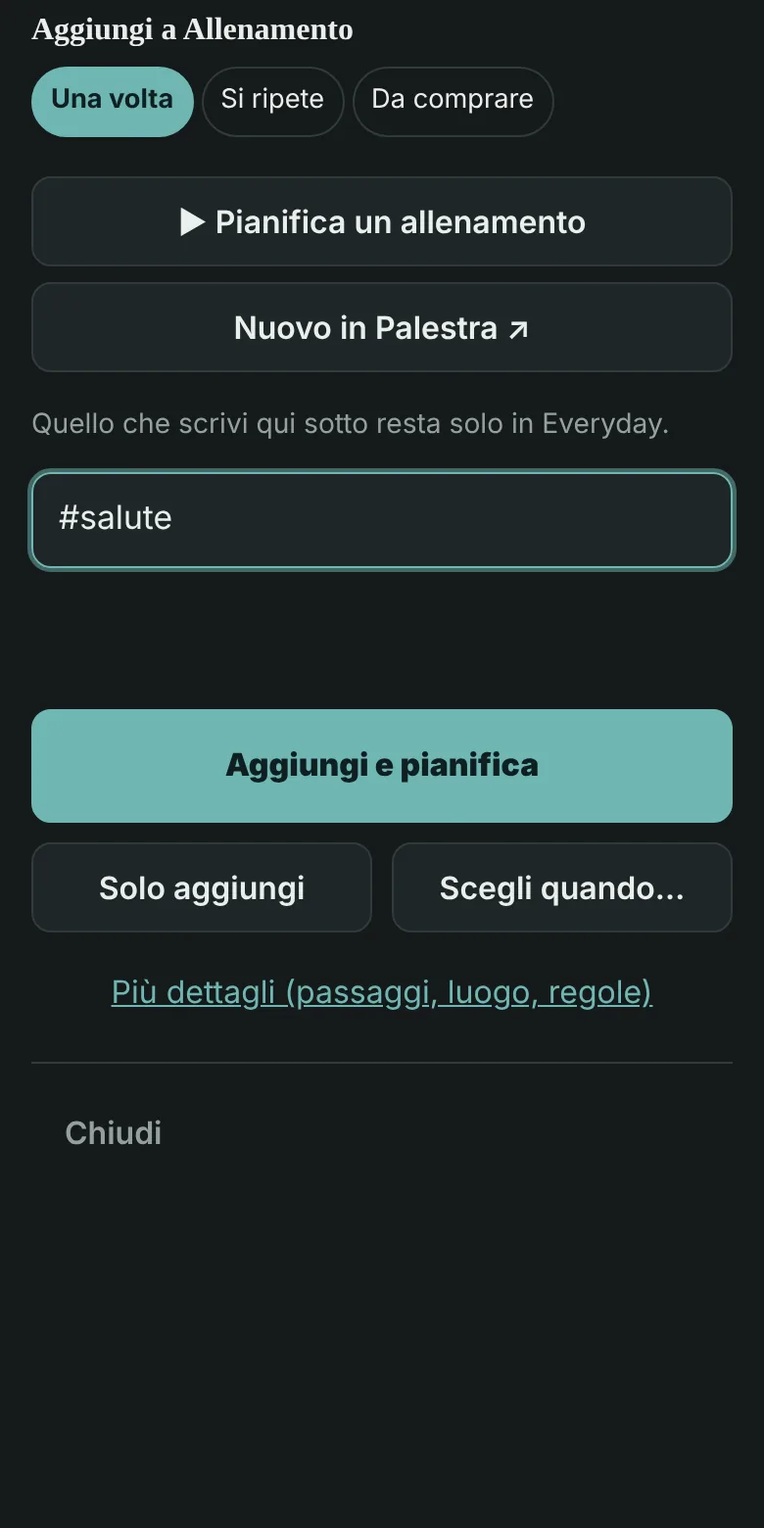
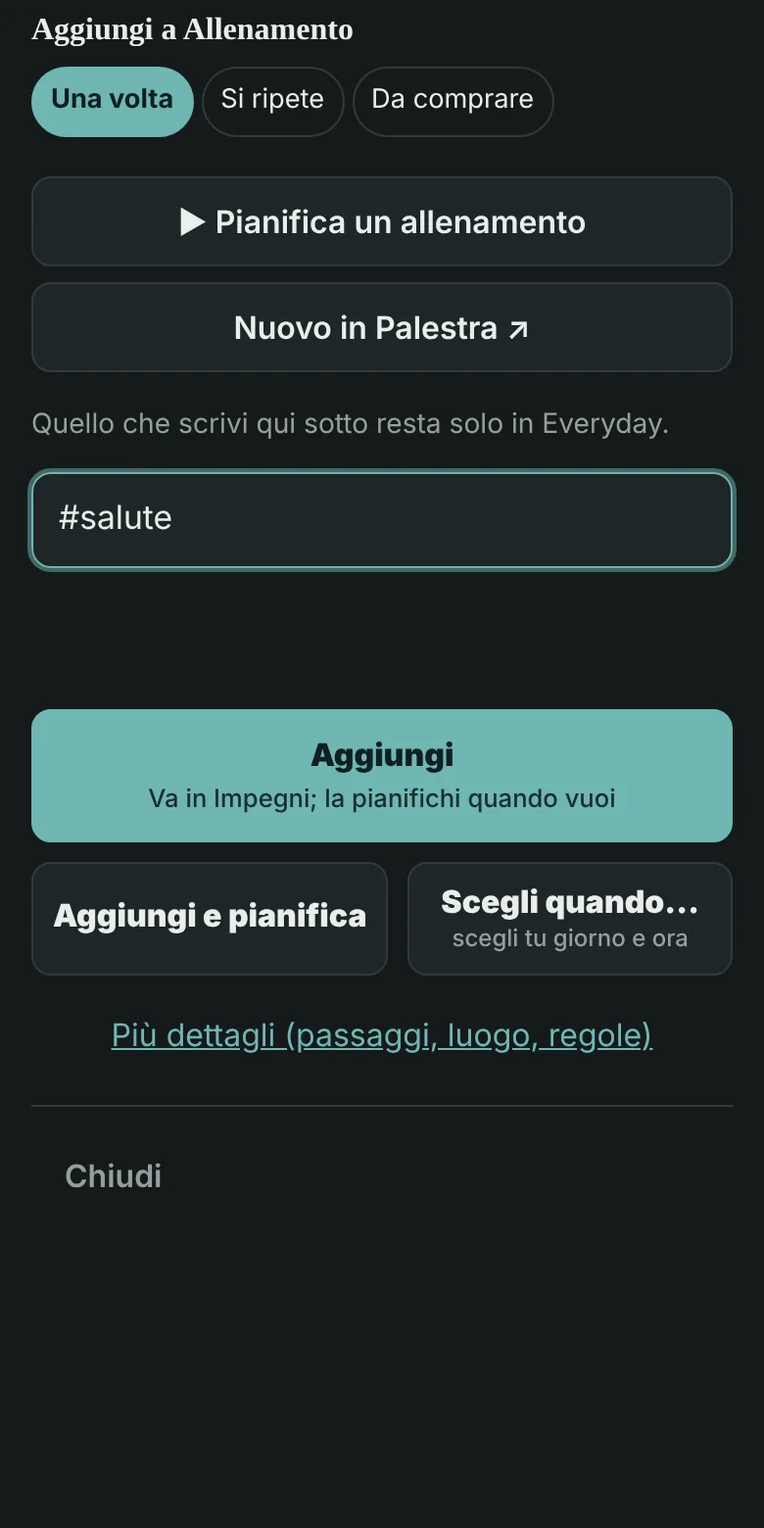
Add files via upload

Changed region(s): [[0.0308, 0.4615, 0.9538, 0.8]]

diff --git a/js/i18n.js b/js/i18n.js
@@ -84,6 +84,7 @@ const dict = {
     pnEvNone: 'Tap an event to see it here.', pnCalendar: 'Calendar', pnTied: 'Before and after', pnNoTied: 'Nothing tied to it yet: All details → + To do before / after.', pnWaiting: 'Waiting', pnNextEvents: 'Coming events', pnTooLong: "It doesn't fit: it needs more time.", agHere: 'put it here',
     langLook: 'Language and appearance', appearance: 'Appearance', theme_auto: 'Automatic', theme_light: 'Light', theme_dark: 'Dark', themeHint: 'Automatic follows your phone or computer. The choice is kept on this device only.',
     advTravelMore: 'Fine-tuning', notConnected: 'Not connected', gcalRowSub: 'Your appointments in the plan, your plan in the calendar', advTasksSub: 'Date groups, the week at a glance', onWord: 'On', offWord: 'Off', advDataSub: 'Export, empty this device', advancedSub2: 'Connections, task list, rules, your data', advListHint: 'Set these up once. Each opens a page of its own.', advOptions: 'Options',
+    addBtnTask: 'Add', addBtnTaskSub: 'It goes to To do; plan it whenever you like', chooseWhenSub: 'pick the day and time yourself',
     category: 'Category', categories: 'Categories', catMain: 'colour', catsHint: 'Tick one or more; the first gives the colour.', noCategory: 'None', notes: 'Notes',
     save: 'Save', cancel: 'Cancel', delete: 'Delete', close: 'Close', duplicate: 'Duplicate', planIt: 'Plan it',
     confirmDeleteTask: 'Delete this task?', confirmDeleteTemplate: 'Delete this template?', confirmDeleteCategory: 'Delete this category? Tasks keep working, just without a color.',
@@ -204,7 +205,7 @@ const dict = {
     shopAddPh: 'e.g. 2 l milk, dish soap, toilet paper', shareList: 'Share the list', runningLow: 'running low',
     department: 'Department', forRecipes: (list) => `For: ${list}`, doneShopping: 'Done shopping',
     putAwayDone: (n) => `${n} ${plural(n, 'item', 'items')} put away`,
-    putAwayFood: 'Food goes into Ricette\'s pantry; household and personal-care items just leave the list.',
+    putAwayFood: 'Everything goes into Ricette\'s pantry; cleaning and personal-care items under Household.',
     dept_produce: 'Fruit & veg', dept_bakery: 'Bread & bakery', dept_meatfish: 'Meat & fish', dept_dairy: 'Dairy & eggs', dept_grains: 'Pasta, rice & grains', dept_staples: 'Pantry staples', dept_condiments: 'Condiments & spices', dept_sweets: 'Sweets & snacks', dept_drinks: 'Drinks', dept_frozen: 'Frozen', dept_other: 'Other', listView: 'View', listMode_dept: 'Departments', listMode_recipe: 'Recipes', listMode_plain: 'My order', restock: 'Restock', otherItems: 'Other', inCart: 'In the cart', clearChecked: 'Clear', putAway: 'Put in pantry', dragHintGroups: 'Drag ⠿ to reorder items and groups, e.g. to match your supermarket.', dragHintItems: 'Drag ⠿ to put the items in your own order.', dragToMove: (n) => `Move ${n}`, copied: 'List copied', quantity: 'Quantity', unit: 'Unit',
     newVersion: 'A new version of Everyday is ready.', reloadNow: 'Update',
     steps: 'Steps', stepsHint: 'Parts of the task, each with its own time on the plan.',
@@ -379,6 +380,7 @@ const dict = {
     pnEvNone: 'Tocca un evento per vederlo qui.', pnCalendar: 'Calendario', pnTied: 'Prima e dopo', pnNoTied: 'Ancora niente legato: Tutti i dettagli → + Da fare prima / dopo.', pnWaiting: 'In attesa', pnNextEvents: 'Prossimi eventi', pnTooLong: 'Non ci sta: serve più tempo.', agHere: 'mettila qui',
     langLook: 'Lingua e aspetto', appearance: 'Aspetto', theme_auto: 'Automatico', theme_light: 'Chiaro', theme_dark: 'Scuro', themeHint: 'Automatico segue il telefono o il computer. La scelta resta solo su questo dispositivo.',
     advTravelMore: 'Regolazioni', notConnected: 'Non collegato', gcalRowSub: 'I tuoi appuntamenti nel piano, il piano nel calendario', advTasksSub: 'Gruppi per data, la settimana a colpo d\'occhio', onWord: 'Attive', offWord: 'Spente', advDataSub: 'Esporta, svuota questo dispositivo', advancedSub2: 'Collegamenti, elenco attività, regole, i tuoi dati', advListHint: 'Da impostare una volta. Ognuna apre una pagina sua.', advOptions: 'Opzioni',
+    addBtnTask: 'Aggiungi', addBtnTaskSub: 'Va in Impegni; la pianifichi quando vuoi', chooseWhenSub: 'scegli tu giorno e ora',
     category: 'Categoria', categories: 'Categorie', catMain: 'colore', catsHint: 'Scegline una o più; la prima dà il colore.', noCategory: 'Nessuna', notes: 'Note',
     save: 'Salva', cancel: 'Annulla', delete: 'Elimina', close: 'Chiudi', duplicate: 'Duplica', planIt: 'Pianifica',
     confirmDeleteTask: 'Eliminare questa attività?', confirmDeleteTemplate: 'Eliminare questo modello?', confirmDeleteCategory: 'Eliminare questa categoria? Le attività restano, solo senza colore.',
@@ -495,7 +497,7 @@ const dict = {
     shopAddPh: 'Es. 2 l latte, detersivo piatti, carta igienica', shareList: 'Condividi la lista', runningLow: 'in esaurimento',
     department: 'Reparto', forRecipes: (list) => `Per: ${list}`, doneShopping: 'Spesa fatta',
     putAwayDone: (n) => `${n} ${plural(n, 'articolo sistemato', 'articoli sistemati')}`,
-    putAwayFood: 'Il cibo va nella dispensa di Ricette; i prodotti per la casa e la persona escono solo dalla lista.',
+    putAwayFood: 'Tutto va nella dispensa di Ricette; i prodotti per la casa e la persona sotto Casa e pulizia.',
     dept_produce: 'Frutta e verdura', dept_bakery: 'Pane e forno', dept_meatfish: 'Carne e pesce', dept_dairy: 'Latticini e uova', dept_grains: 'Pasta, riso e cereali', dept_staples: 'Dispensa e conserve', dept_condiments: 'Condimenti e spezie', dept_sweets: 'Dolci e snack', dept_drinks: 'Bevande', dept_frozen: 'Surgelati', dept_other: 'Altro', listView: 'Visualizzazione', listMode_dept: 'Reparti', listMode_recipe: 'Ricette', listMode_plain: 'Mio ordine', restock: 'Da ricomprare', otherItems: 'Altro', inCart: 'Nel carrello', clearChecked: 'Svuota', putAway: 'Metti in dispensa', dragHintGroups: 'Trascina ⠿ per riordinare articoli e gruppi, ad esempio nell\'ordine del tuo supermercato.', dragHintItems: 'Trascina ⠿ per mettere gli articoli nell\'ordine che preferisci.', dragToMove: (n) => `Sposta ${n}`, copied: 'Lista copiata', quantity: 'Quantità', unit: 'Unità',
     newVersion: 'È pronta una nuova versione di Everyday.', reloadNow: 'Aggiorna',
     steps: 'Passaggi', stepsHint: 'Parti dell\'attività, ognuna col suo orario nel piano.',
@@ -670,6 +672,7 @@ const dict = {
     pnEvNone: 'Tippe auf einen Termin, um ihn hier zu sehen.', pnCalendar: 'Kalender', pnTied: 'Davor und danach', pnNoTied: 'Noch nichts verknüpft: Alle Details → + Davor / danach.', pnWaiting: 'Wartet', pnNextEvents: 'Nächste Termine', pnTooLong: 'Passt nicht: Es braucht mehr Zeit.', agHere: 'hierhin',
     langLook: 'Sprache und Aussehen', appearance: 'Aussehen', theme_auto: 'Automatisch', theme_light: 'Hell', theme_dark: 'Dunkel', themeHint: 'Automatisch folgt dem Handy oder Computer. Die Wahl gilt nur auf diesem Gerät.',
     advTravelMore: 'Feineinstellungen', notConnected: 'Nicht verbunden', gcalRowSub: 'Deine Termine im Plan, dein Plan im Kalender', advTasksSub: 'Datumsgruppen, die Woche auf einen Blick', onWord: 'An', offWord: 'Aus', advDataSub: 'Exportieren, dieses Gerät leeren', advancedSub2: 'Verbindungen, Aufgabenliste, Regeln, deine Daten', advListHint: 'Einmal einrichten. Jede öffnet eine eigene Seite.', advOptions: 'Optionen',
+    addBtnTask: 'Hinzufügen', addBtnTaskSub: 'Kommt in die To-do-Liste; plane es, wann du willst', chooseWhenSub: 'Tag und Uhrzeit selbst wählen',
     category: 'Kategorie', categories: 'Kategorien', catMain: 'Farbe', catsHint: 'Eine oder mehrere wählen; die erste gibt die Farbe.', noCategory: 'Keine', notes: 'Notizen',
     save: 'Speichern', cancel: 'Abbrechen', delete: 'Löschen', close: 'Schließen', duplicate: 'Duplizieren', planIt: 'Einplanen',
     confirmDeleteTask: 'Diese Aufgabe löschen?', confirmDeleteTemplate: 'Diese Vorlage löschen?', confirmDeleteCategory: 'Diese Kategorie löschen? Aufgaben bleiben erhalten, nur ohne Farbe.',
@@ -786,7 +789,7 @@ const dict = {
     shopAddPh: 'z. B. 2 l Milch, Spülmittel, Toilettenpapier', shareList: 'Liste teilen', runningLow: 'Vorrat knapp',
     department: 'Abteilung', forRecipes: (list) => `Für: ${list}`, doneShopping: 'Einkauf erledigt',
     putAwayDone: (n) => `${n} ${plural(n, 'Artikel', 'Artikel')} eingeräumt`,
-    putAwayFood: 'Essen kommt in Ricettes Vorrat; Haushalts- und Pflegeartikel verschwinden nur von der Liste.',
+    putAwayFood: 'Alles kommt in Ricettes Vorrat; Haushalts- und Pflegeartikel unter Haushalt.',
     dept_produce: 'Obst & Gemüse', dept_bakery: 'Brot & Backwaren', dept_meatfish: 'Fleisch & Fisch', dept_dairy: 'Milchprodukte & Eier', dept_grains: 'Nudeln, Reis & Getreide', dept_staples: 'Vorrat & Konserven', dept_condiments: 'Gewürze & Saucen', dept_sweets: 'Süßes & Snacks', dept_drinks: 'Getränke', dept_frozen: 'Tiefkühl', dept_other: 'Sonstiges', listView: 'Ansicht', listMode_dept: 'Abteilungen', listMode_recipe: 'Rezepte', listMode_plain: 'Meine Reihenfolge', restock: 'Nachkaufen', otherItems: 'Sonstiges', inCart: 'Im Wagen', clearChecked: 'Entfernen', putAway: 'In den Vorrat', dragHintGroups: 'Ziehe ⠿, um Artikel und Gruppen umzusortieren, z. B. in der Reihenfolge deines Supermarkts.', dragHintItems: 'Ziehe ⠿, um die Artikel in deine Reihenfolge zu bringen.', dragToMove: (n) => `${n} verschieben`, copied: 'Liste kopiert', quantity: 'Menge', unit: 'Einheit',
     newVersion: 'Eine neue Version von Everyday ist bereit.', reloadNow: 'Aktualisieren',
     steps: 'Schritte', stepsHint: 'Teile der Aufgabe, jeder mit eigener Zeit im Plan.',

diff --git a/guide-it.html b/guide-it.html
@@ -173,11 +173,11 @@ html.desk .desk-only{background:var(--card);border-radius:14px;padding:2px 16px}
 <p>Qualche scorciatoia evita di aprire l'attività: <code>Dentista 1h</code> imposta quanto dura, <code>!1</code>…<code>!5</code> quanto è importante (1 = molto), <code>#lavoro</code> una categoria (<code>#lavoro #casa</code> per due), <code>@Via Roma 12</code> il luogo, <code>ven</code> o <code>domani</code> il giorno, <code>entro ven</code> una scadenza, <code>ogni lun</code> una ripetizione settimanale. Sotto il campo, dei bollini mostrano cosa ha capito l'app: <em>20m · Lavoro · entro Ven</em>.</p>
 <p>Per un'attività ci sono tre modi di chiudere:</p>
 <ul>
+<li><strong>Aggiungi</strong>, il pulsante grande, la mette nella lista, da pianificare quando vuoi. Invio fa lo stesso e tiene il foglio aperto per la prossima.</li>
 <li><strong>Aggiungi e pianifica</strong> la mette subito nel primo spazio libero; il pulsante dice dove (<em>primo spazio libero: Mer 09:00</em>). Con un giorno <em>e</em> un'ora (<code>Chiamare Marco mar 15:00</code>) va esattamente lì.</li>
-<li><strong>Solo aggiungi</strong> la mette nella lista, da pianificare dopo. Invio fa lo stesso e tiene il foglio aperto per la prossima.</li>
-<li><strong>Scegli quando…</strong> apre gli spazi liberi dei prossimi giorni tra cui scegliere.</li>
+<li><strong>Scegli quando…</strong> apre un foglio con giorno, ora e durata, già compilati col primo spazio libero: li cambi tu, poi <em>Pianifica</em>. È la differenza con <em>Aggiungi e pianifica</em>, che decide da sola.</li>
 </ul>
-<p><em>Più dettagli (passaggi, luogo, regole)</em> apre l'editor completo. Un'attività nuova compare in cima alla sua lista sotto <em>Appena aggiunte</em>, e una barra dice dove è andata.</p>
+<p><em>Più dettagli (passaggi, luogo, regole)</em> apre l'editor completo. Un'attività nuova compare in cima alla sua lista sotto <em>Appena aggiunte</em>, e per qualche secondo una barra dice dove è andata, con <em>Annulla</em>. La barra lascia libero il <strong>+</strong>: toccalo per la prossima e la barra si chiude.</p>
 <p>In <em>Spesa</em> e in Eventi, Invio aggiunge la riga e tiene il foglio aperto, con l'elenco di quello che hai aggiunto. <em>Pasto</em> apre l'editor del pasto.</p>
 <p><strong>Tieni premuto il +</strong> (o clic destro dal computer) per il menu completo: Attività, Evento, Da una routine, Pasto e <strong>Importa un elenco</strong>, che prende una lista intera che incolli, un'attività per riga.</p>
 <p><img class="ph" loading="lazy" alt="Tenendo premuto il +: il menu completo" src="guide/it/23-plus-menu.webp" /><img class="dk" loading="lazy" alt="Tenendo premuto il +: il menu completo" src="guide/it/desk/23-plus-menu.webp" /></p>
@@ -330,7 +330,7 @@ html.desk .desk-only{background:var(--card);border-radius:14px;padding:2px 16px}
 <ul>
 <li><strong>Aggiungere.</strong> Tocca <strong>+</strong> e scrivi <code>2 l latte</code>, <code>detersivo piatti</code> o <code>shampoo</code>; Invio aggiunge ognuno e tiene il foglio aperto, così scrivi tutta la lista di fila. Ogni articolo finisce da solo nel suo reparto — e nello stesso in qualunque lingua lo scrivi (<em>cavolfiore</em>, <em>Blumenkohl</em> e <em>cauliflower</em> vanno tutti in <em>Frutta e verdura</em>). Casa e pulizia e cura della persona hanno reparti propri. Gli articoli che Ricette aggiunge perché qualcosa sta finendo hanno l'etichetta <em>in esaurimento</em>.</li>
 <li><strong>⇅ Vista.</strong> Il pulsante accanto alla ricerca mostra la vista attuale; toccalo per scegliere <em>Reparti</em>, <em>Ricette</em>, <em>Negozi</em>, <em>Mio ordine</em>, <em>A–Z</em>, <em>Aggiunti di recente</em> o <em>Aggiunti per primi</em>, e per filtrare: solo quello che si trova in un negozio, o solo quello in esaurimento. I filtri attivi compaiono come etichette sotto la ricerca; toccane una per toglierla.</li>
-<li><strong>Spuntare.</strong> Spunta un articolo al negozio e lascia il suo gruppo per il <strong>carrello</strong> in basso: <em>Nel carrello · 3</em>. Tocca il numero per vedere cosa c'è dentro; <em>Metti in dispensa</em> mette il cibo nella dispensa di Ricette (gli articoli per la casa e la persona escono solo dalla lista).</li>
+<li><strong>Spuntare.</strong> Spunta un articolo al negozio e lascia il suo gruppo per il <strong>carrello</strong> in basso: <em>Nel carrello · 3</em>. Tocca il numero per vedere cosa c'è dentro; <em>Metti in dispensa</em> mette tutto nella dispensa di Ricette: il cibo come sempre, i prodotti per la casa e la persona sotto <em>Casa e pulizia</em>.</li>
 <li><strong>Un articolo.</strong> Tocca il nome per cambiare nome, quantità (− / +), unità, reparto, nota e negozi che lo hanno; <em>+ Nuovo negozio</em> ne aggiunge uno lì. Elimina è nella stessa scheda, con <em>Annulla</em>.</li>
 <li><strong>⋯ Altro.</strong> <em>Pianifica la spesa</em> (i giri dei negozi), <em>Condividi la lista</em>, <em>Seleziona</em> (spunta più articoli per dare loro i negozi o eliminarli insieme), <em>Riordina</em> (trascina ⠿ per mettere reparti e articoli nell'ordine del tuo supermercato; <em>Mio ordine</em> ha sempre le maniglie) e <em>Svuota carrello</em>.</li>
 </ul>

diff --git a/guide-en.html b/guide-en.html
@@ -173,11 +173,11 @@ html.desk .desk-only{background:var(--card);border-radius:14px;padding:2px 16px}
 <p>A few shortcuts save you from opening the task: <code>Dentist 1h</code> sets how long it takes, <code>!1</code> to <code>!5</code> how important it is (1 = very), <code>#work</code> a category (<code>#work #home</code> for two), <code>@Via Roma 12</code> the place, <code>fri</code> or <code>tomorrow</code> the day, <code>by fri</code> a due date, <code>every mon</code> a weekly repeat. Under the field, chips show what the app understood: <em>20m · Work · due Fri</em>.</p>
 <p>For a task there are three ways to finish:</p>
 <ul>
+<li><strong>Add</strong>, the big button, puts it on the list, to plan whenever you like. Pressing Enter does the same and keeps the sheet open for the next one.</li>
 <li><strong>Add and plan</strong> puts it in the first free slot right away; the button says where (<em>first free slot: Wed 09:00</em>). With a day <em>and</em> a time (<code>Call Marco tue 15:00</code>) it goes exactly there.</li>
-<li><strong>Just add</strong> puts it on the list, to plan later. Pressing Enter does the same and keeps the sheet open for the next one.</li>
-<li><strong>Choose when…</strong> opens the free slots of the coming days to pick from.</li>
+<li><strong>Choose when…</strong> opens a sheet with the day, time and length, filled in with the first free slot: change them yourself, then <em>Plan it</em>. That's the difference from <em>Add and plan</em>, which decides on its own.</li>
 </ul>
-<p><em>More details (steps, place, rules)</em> opens the full editor. A new task shows on top of its list under <em>Just added</em>, and a bar says where it went.</p>
+<p><em>More details (steps, place, rules)</em> opens the full editor. A new task shows on top of its list under <em>Just added</em>, and for a few seconds a bar says where it went, with <em>Undo</em>. The bar leaves the <strong>+</strong> free: tap it for the next one and the bar closes.</p>
 <p>On <em>Shopping</em> and Events, Enter adds the line and keeps the sheet open, listing what you've added so far. <em>Meal</em> opens the meal editor.</p>
 <p><strong>Hold the +</strong> (or right-click it on a computer) for the full menu: Task, Event, From a routine, Meal and <strong>Import a list</strong>, which takes a whole list you paste in, one task per line.</p>
 <p><img class="ph" loading="lazy" alt="Holding the +: the full menu" src="guide/en/23-plus-menu.webp" /><img class="dk" loading="lazy" alt="Holding the +: the full menu" src="guide/en/desk/23-plus-menu.webp" /></p>
@@ -330,7 +330,7 @@ html.desk .desk-only{background:var(--card);border-radius:14px;padding:2px 16px}
 <ul>
 <li><strong>Adding.</strong> Tap <strong>+</strong> and type <code>2 l milk</code>, <code>dish soap</code> or <code>shampoo</code>; Enter adds each one and keeps the sheet open, so you can type the whole list in one go. Each item lands in its department by itself — and in the same one whatever language you type in (<em>cavolfiore</em>, <em>Blumenkohl</em> and <em>cauliflower</em> all go under <em>Fruit &amp; veg</em>). Household and personal care have departments of their own. Items Ricette adds because something is running low carry a <em>running low</em> label.</li>
 <li><strong>⇅ View.</strong> The button next to the search shows the current view; tap it to choose <em>Departments</em>, <em>Recipes</em>, <em>Shops</em>, <em>My order</em>, <em>A–Z</em>, <em>Newest first</em> or <em>Oldest first</em>, and to filter: only what you can get at one shop, or only what is running low. Active filters show as chips under the search; tap one to remove it.</li>
-<li><strong>Ticking.</strong> Tick an item at the shop and it leaves its group for the <strong>cart</strong> at the bottom: <em>In the cart · 3</em>. Tap the count to see what's in it; <em>Put in pantry</em> puts the food into Ricette's pantry (household and care items just leave the list).</li>
+<li><strong>Ticking.</strong> Tick an item at the shop and it leaves its group for the <strong>cart</strong> at the bottom: <em>In the cart · 3</em>. Tap the count to see what's in it; <em>Put in pantry</em> puts everything into Ricette's pantry: food as always, household and care items under <em>Household</em>.</li>
 <li><strong>An item.</strong> Tap its name to change the name, the quantity (− / +), the unit, the department, the note and the shops that have it; <em>+ New shop</em> adds one right there. Delete is in the same sheet, with <em>Undo</em>.</li>
 <li><strong>⋯ More.</strong> <em>Plan the shopping</em> (the grocery runs), <em>Share the list</em>, <em>Select</em> (tick several items to give them shops or delete them together), <em>Reorder</em> (drag ⠿ to put departments and items in the order of your supermarket; <em>My order</em> always has the handles) and <em>Empty the cart</em>.</li>
 </ul>

diff --git a/js/editors.js b/js/editors.js
@@ -295,9 +295,9 @@ export function openQuickTask({ saved = false, kind = saved ? 'saved' : 'todo', 
       <button class="linkish" value="more">${esc(t('moreDetails'))}</button>`
     : saved ? `<button class="btn primary big" value="add"><b>${esc(t('addSavedBtn'))}</b><small id="quick-slot">${esc(t('addSavedSub'))}</small></button>
       <button class="linkish" value="more">${esc(t('moreDetails'))}</button>`
-    : `<button class="btn primary big" value="plan"><b>${esc(t('addAndPlan'))}</b><small id="quick-slot"></small></button>
-      <div class="two-btn"><button class="btn" value="add">${esc(t('justAdd'))}</button><button class="btn" value="when">${esc(t('chooseWhen'))}</button></div>
-      <button class="linkish" value="more">${esc(t('moreDetails'))}</button>`;
+    : `<button class="btn primary big" value="add"><b>${esc(t('addBtnTask'))}</b><small>${esc(t('addBtnTaskSub'))}</small></button>
+      <div class="two-btn"><button class="btn two-line" value="plan"><b>${esc(t('addAndPlan'))}</b><small id="quick-slot"></small></button><button class="btn two-line" value="when"><b>${esc(t('chooseWhen'))}</b><small>${esc(t('chooseWhenSub'))}</small></button></div>
+      <button class="linkish" value="more">${esc(t('moreDetails'))}</button>`; // (v63) Add first; planning is a choice
   openModal(`
     ${vw ? `<h2 class="quick-where">${esc(t('addToView', viewName(vw)))}</h2>` : ''}
     <div class="kind-chips" role="group" aria-label="${esc(t('addMenuFab'))}">${(vw ? ['todo', 'saved', 'shop'] : ['todo', 'event', 'saved', 'meal', 'shop']).map(chip).join('')}</div>
@@ -416,8 +416,8 @@ export function afterAdd(x, block, { tried = false } = {}) {
   const sv = x.kind === 'saved';
   const here = route().name === 'tasks' && (!classic() || (ui.tasksTab || state.settings.tasksTab) === (sv ? 'saved' : 'todo'));
   const show = here ? [] : [{ label: t('show'), run: () => { ui.tasksTab = sv ? 'saved' : 'todo'; if (!classic()) setView('overview'); location.hash = '#/tasks'; render(); } }];
-  if (block) toast(t('addedPlanned', relDay(block.date), fmtTime(block.start)), 8000, [{ label: t('change'), run: () => openBlock(get('blocks', block.id)) }, undo]);
-  else toast(sv ? t('addedSaved') : tried ? t('addedNoSlot') : t('addedToList'), 8000, [...show, undo]);
+  if (block) toast(t('addedPlanned', relDay(block.date), fmtTime(block.start)), 5000, [{ label: t('change'), run: () => openBlock(get('blocks', block.id)) }, undo]);
+  else toast(sv ? t('addedSaved') : tried ? t('addedNoSlot') : t('addedToList'), 5000, [...show, undo]);
 }
 
 // "+ Add": things you put on the plan by hand.

diff --git a/js/app.js b/js/app.js
@@ -12,7 +12,7 @@
 // Pure logic with unit tests lives in plan.js, smart.js, kinds.js, travel.js, shops.js and friends;
 // storage and sync in store.js and sync.js.
 import { moveWeek, openRoutine } from './routines.js';
-import { $, findCategory, fmtDay, modal, PPM, quickFields, range, relDay, route, seedCategories, TAB_OF, TABS, toast, ui, view } from './core.js';
+import { $, findCategory, hideToast, fmtDay, modal, PPM, quickFields, range, relDay, route, seedCategories, TAB_OF, TABS, toast, ui, view } from './core.js';
 import { setupDrag } from './drag.js';
 import { afterStart, openPalestra, doShift, finishTimer, openAddMenu, openPickSheet, openQuickTask, plusKind, openAutoPlanner, openBlock, openCategory, openEvent, openEventTaskAdd, openImport, openMeal, openPlanSaved, openSavedPicker, openShopRec, openSpare, openTask, openTaskChecklist, openTemplate, openTemplatesMenu } from './editors.js';
 import { t } from './i18n.js';
@@ -469,7 +469,7 @@ setupDrag(view, {
   fab.addEventListener('pointerdown', () => { held = false; hold = setTimeout(() => { held = true; navigator.vibrate?.(12); openAddMenu({ fab: true }); }, 500); });
   for (const ev of ['pointerup', 'pointerleave', 'pointercancel']) fab.addEventListener(ev, () => clearTimeout(hold));
   fab.addEventListener('contextmenu', (e) => { e.preventDefault(); if (!held) openAddMenu({ fab: true }); held = true; });
-  fab.addEventListener('click', () => { if (held) { held = false; return; } openQuickTask({ kind: plusKind() }); });
+  fab.addEventListener('click', () => { if (held) { held = false; return; } hideToast(); openQuickTask({ kind: plusKind() }); });
 }
 $('#app-title').addEventListener('click', () => {
   if (route().name === 'today') window.scrollTo({ top: 0, behavior: 'smooth' }); else location.hash = '#/today';

diff --git a/css/style.css b/css/style.css
@@ -1154,7 +1154,11 @@ label.check.tall { align-items: flex-start; }
 .quick-go .two-btn { display: grid; grid-template-columns: 1fr 1fr; gap: 10px; }
 .quick-go .linkish { align-self: center; padding: 8px; }
 .quick-done { font-size: .85rem; color: var(--green); min-height: 1.2em; margin: 4px 0 0; }
-#toast.act.show ~ #fab { opacity: 0; pointer-events: none; }
+/* (v63) the toast with Undo leaves the + free: on a phone it sits to the left of it, and tapping + closes it */
+@media (max-width: 1099px) {
+  #toast.act { left: 12px; right: 88px; width: auto; max-width: none; transform: translate(0, 20px); }
+  #toast.act.show { transform: translate(0, 0); }
+}
 #fab { transition: opacity .2s; }
 .quick-go .btn.primary.big small { color: inherit; opacity: .9; }
 dialog.quick h2 { margin-top: .4rem; }
@@ -1456,3 +1460,7 @@ body.is-wide.wide-pane #fab { right: calc(var(--pane) + 28px); }
 .seg.theme-seg input { position: absolute; opacity: 0; width: 1px; height: 1px; }
 .seg.theme-seg label:has(input:focus-visible) { outline: 2px solid var(--accent); outline-offset: 2px; }
 .set-sub-h { margin: 18px 4px 6px; font-size: .72rem; font-weight: 700; text-transform: uppercase; letter-spacing: .06em; color: var(--muted); } /* (v62) groups of rows in Avanzate */
+
+/* (v63) the + sheet: Aggiungi first; the two ways to plan under it, each with a line on what it does */
+.quick-go .two-btn .btn.two-line { flex-direction: column; gap: 2px; min-height: 58px; padding: 8px 10px; line-height: 1.2; }
+.quick-go .two-btn .btn.two-line small { font-weight: 500; font-size: .75rem; color: var(--muted); }

diff --git a/js/views/shop.js b/js/views/shop.js
@@ -127,7 +127,7 @@ export function viewShop() {
   const done = cartItems().filter((i) => !q || itemMatches(i, q));
   const allDone = cartItems();
   const labels = slLabels();
-  const food = allDone.filter(isFood).length;
+  const food = ricetteConfigured() ? allDone.length : allDone.filter(isFood).length; // (v63) with Ricette everything is put away
   const any = live(SH()).length > 0;
   // (v52) the explanation and the sync line are behind ⓘ; adding goes through the + button
   return `
@@ -180,7 +180,12 @@ function undoRemove() {
 }
 
 export function putAwayCart() {
-  const n = K().putAway(isFood, (it) => (it.cat && DEPT_IDS.includes(it.cat) && !NONFOOD.includes(it.cat) ? it.cat : null));
+  // (v63, Ricette v53) with Ricette, cleaning and care items go into the pantry too (Ricette files them under
+  // Casa e pulizia from their department); on Everyday's own list only food is kept, as before.
+  const all = ricetteConfigured();
+  // Food keeps a department only when a person chose one; cleaning and care always carry theirs, so Ricette can file them.
+  const catOf = (it) => { if (it.cat && DEPT_IDS.includes(it.cat) && !NONFOOD.includes(it.cat)) return it.cat; const d = shopDept(it); return all && NONFOOD.includes(d) ? d : null; };
+  const n = K().putAway(all ? () => true : isFood, catOf);
   toast(t('putAwayDone', n));
   ui.cartOpen = false;
   changed();

diff --git a/sw.js b/sw.js
@@ -1,6 +1,6 @@
 // Offline support: the app shell is cached; it updates itself in the background.
 // After changing any app file, bump VERSION so installed copies pick up the update.
-const VERSION = 'everyday-v62';
+const VERSION = 'everyday-v63';
 const SHELL = [
   './', 'index.html', 'css/shoplist.css', 'css/style.css', 'manifest.webmanifest', 'guide-en.html', 'guide-it.html',
   'js/app.js', 'js/categories.js', 'js/connections.js', 'js/core.js', 'js/depts.js', 'js/drag.js', 'js/geo.js', 'js/editors.js', 'js/foods.js', 'js/i18n.js', 'js/kinds.js', 'js/kitchen-host.js', 'js/kitchen.js', 'js/model.js', 'js/parse.js', 'js/plan.js', 'js/planning.js', 'js/recipe-tools.js', 'js/recipes.js', 'js/shell.js', 'js/shoplist-ui.js', 'js/shoplist.js', 'js/shops.js', 'js/smart.js', 'js/sortable.js', 'js/store.js', 'js/sync.js', 'js/timer.js', 'js/theme.js', 'js/weekpick.js', 'js/routines.js', 'js/palestra.js', 'js/times.js', 'js/travel-plan.js', 'js/travel.js', 'js/tray.js', 'js/views/events.js', 'js/views/planner.js', 'js/views/settings.js', 'js/views/shop.js', 'js/views/tasks.js', 'js/views/impegni.js', 'js/views/wide.js', 'js/views/today.js', 'js/widgets.js',

diff --git a/js/core.js b/js/core.js
@@ -6,7 +6,7 @@ import { addDays, fmtTime, parseDate, today } from './plan.js';
 import { get, has, live, remove, state, uid, upsert } from './store.js';
 
 // Shown under Settings; keep in step with VERSION in sw.js (a unit test checks).
-export const APP_VERSION = 'v62';
+export const APP_VERSION = 'v63';
 
 export const $ = (sel, root = document) => root.querySelector(sel);
 // Hints that were emptied in i18n (the guide explains instead) render nothing.
@@ -57,8 +57,11 @@ export function toast(msg, ms = 3200, actions = null) {
   } else { el.textContent = msg; el.classList.remove('act'); el.onclick = null; }
   el.classList.add('show');
   clearTimeout(toast.timer);
-  toast.timer = setTimeout(hide, actions?.length ? Math.max(ms, 8000) : ms);
+  toast.timer = setTimeout(hide, actions?.length ? Math.max(ms, 5000) : ms);
+  toast.hide = hide;
 }
+// (v63) close it now (tapping + for the next one)
+export function hideToast() { clearTimeout(toast.timer); toast.hide?.(); }
 
 export function route() {
   const h = location.hash.replace(/^#\/?/, '') || 'today';
